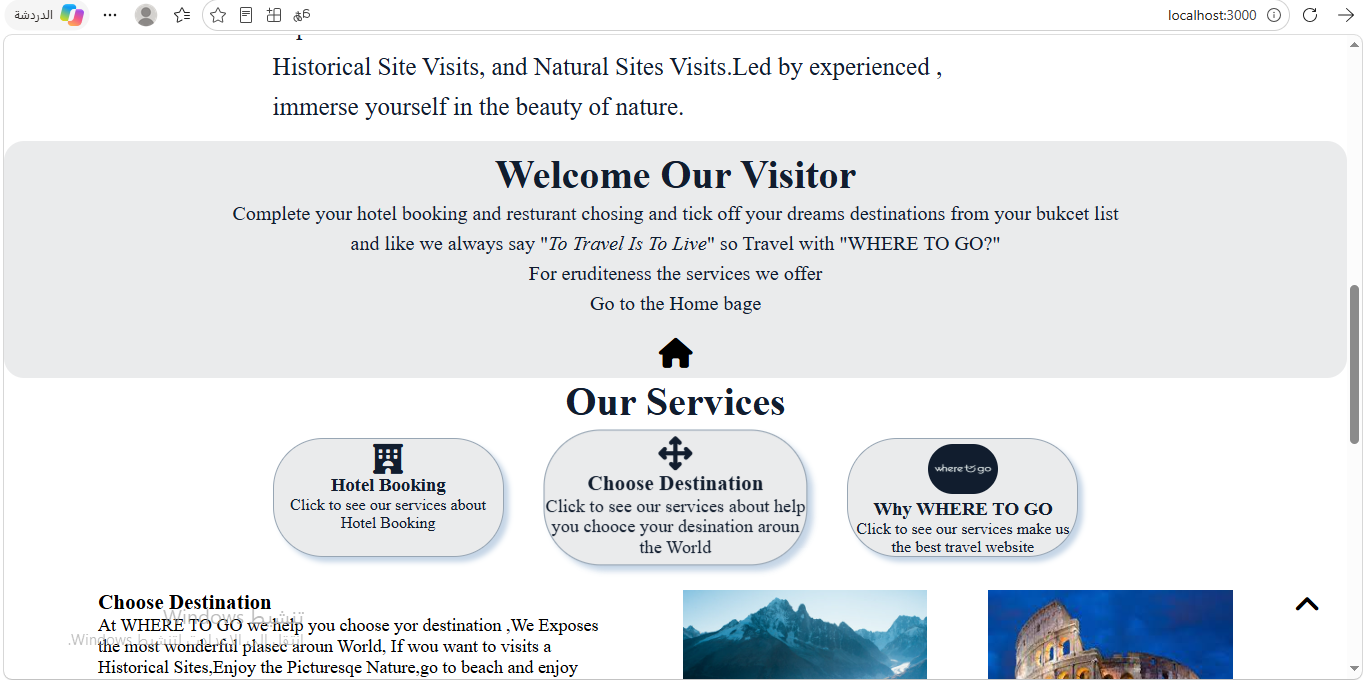
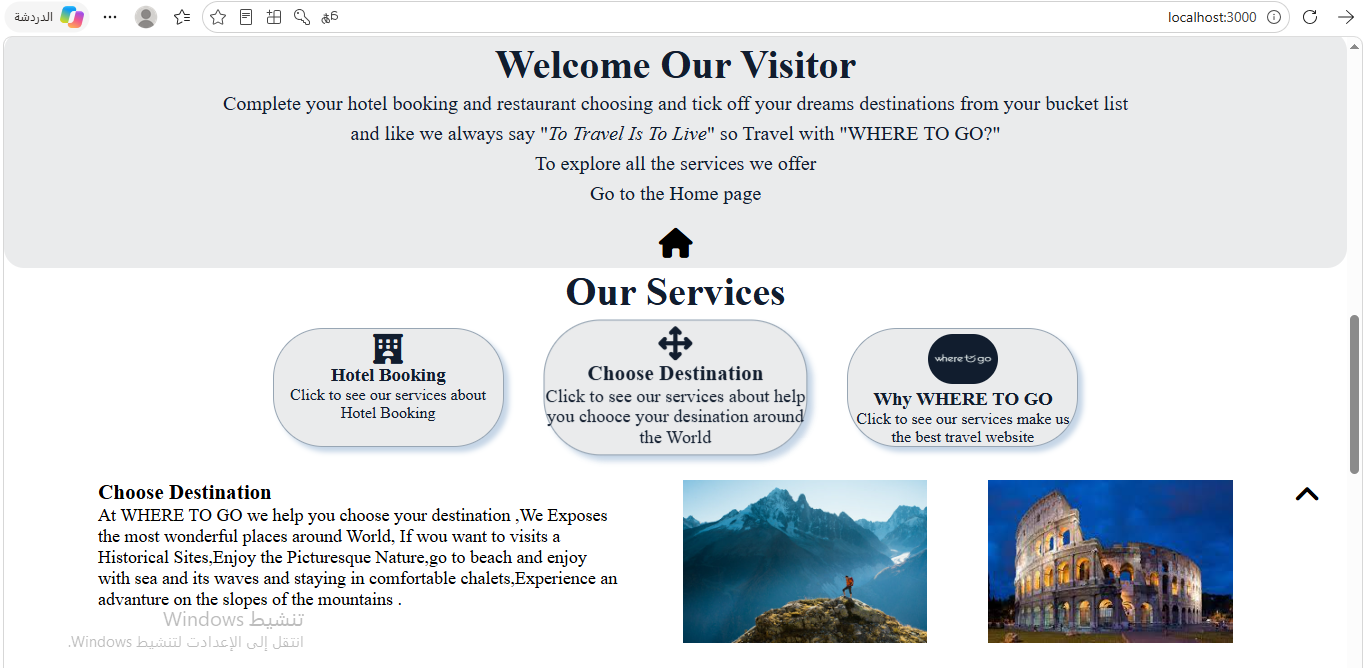
Improve navbar contrast and update README with screenshots

diff --git a/src/About/About.js b/src/About/About.js
@@ -63,10 +63,10 @@ const  newdestClick =() => {
       </div>
       <div id="welcomVisitor">
         <h2 className="titleMS" >Welcome Our Visitor</h2>
-        <p>Complete your hotel booking and resturant chosing and tick off your dreams destinations from your bukcet list
+        <p>Complete your hotel booking and restaurant choosing and tick off your dreams destinations from your bucket list
            <br></br> and like we always say "<span style={{fontStyle: 'italic'  ,}}>To Travel Is To Live</span>" so Travel with "WHERE TO GO?"
         </p>
-        <p >For eruditeness the services we offer<br></br>Go to the Home bage</p>
+        <p >To explore all the services we offer<br></br>Go to the Home page</p>
         <Link to={"/"} id="home_link_from_about" title="Home page" onClick={()=>edit_style("Header_Button-Home") } >
           <i className='fa-solid fa-house'  	 ></i>
         </Link>
@@ -84,7 +84,7 @@ const  newdestClick =() => {
           <div id="destination" className="card" onClick={destClick}>
             <i class="fa fa-arrows"   ></i>
             <h3> Choose Destination</h3>
-            <p>Click to see our services about help you chooce your desination aroun the World</p>
+            <p>Click to see our services about help you chooce your desination around the World</p>
              
           </div>
           <div id="Why" className="card" onClick={whyClick}>
@@ -110,9 +110,9 @@ const  newdestClick =() => {
         <div id="newDest">
           <div className="newText">
            <h3>Choose Destination</h3>
-           At WHERE TO GO we help you choose yor destination ,We Exposes the most wonderful plasec aroun World,
-           If wou want to visits a Historical Sites,Enjoy the Picturesqe Nature,go to beach 
-           and enjoy whith sea and its waves and staying in comfortable chalets,Experience an advanture
+           At WHERE TO GO we help you choose your destination ,We Exposes the most wonderful places around World,
+           If wou want to visits a Historical Sites,Enjoy the Picturesque Nature,go to beach 
+           and enjoy with sea and its waves and staying in comfortable chalets,Experience an advanture
            on the slopes of the mountains .
          </div>
          <img src={require('./dest1.jpg')} width="20%" alt="  "></img>
@@ -141,7 +141,7 @@ const  newdestClick =() => {
         <div class="comment">
       <p style={{padding:'0 20px'}}>
           <span class="userComment"><i class="fa fa-user-circle" aria-hidden="true" ></i><br></br>
-          <span id="userName">Joen Rafi</span></span>
+          <span id="userName">John Rafi</span></span>
           <br></br>
           <i class="fa fa-quote-left" aria-hidden="true"></i><span>  </span>
           is a nice trip with your website we have stayed in a comfortable hotel with distinctive<span>  </span>
@@ -154,7 +154,7 @@ const  newdestClick =() => {
           <span id="userName">Ahmed Refai</span></span>
           <br></br>
           <i class="fa fa-quote-left" aria-hidden="true"></i><span>  </span>
-          I Like Your Website ,help me choose the most suitble hotel and resturant with delicious food <span>  </span>
+          I Like Your Website ,help me choose the most suitable hotel and restaurant with delicious food <span>  </span>
           <i class="fa fa-quote-right" aria-hidden="true"></i>
           </p>
         </div>

diff --git a/src/Components/Header/Header.css b/src/Components/Header/Header.css
@@ -43,7 +43,8 @@
     text-decoration: none;
     font-size: 25px;
     padding: 20px;
-    color: #365486;
+    color: #ffffff;
+    text-shadow: 0 2px 6px rgba(0,0,0,0.75);
     border-bottom: transparent 2px solid;
     transition-duration: 800ms;
     
